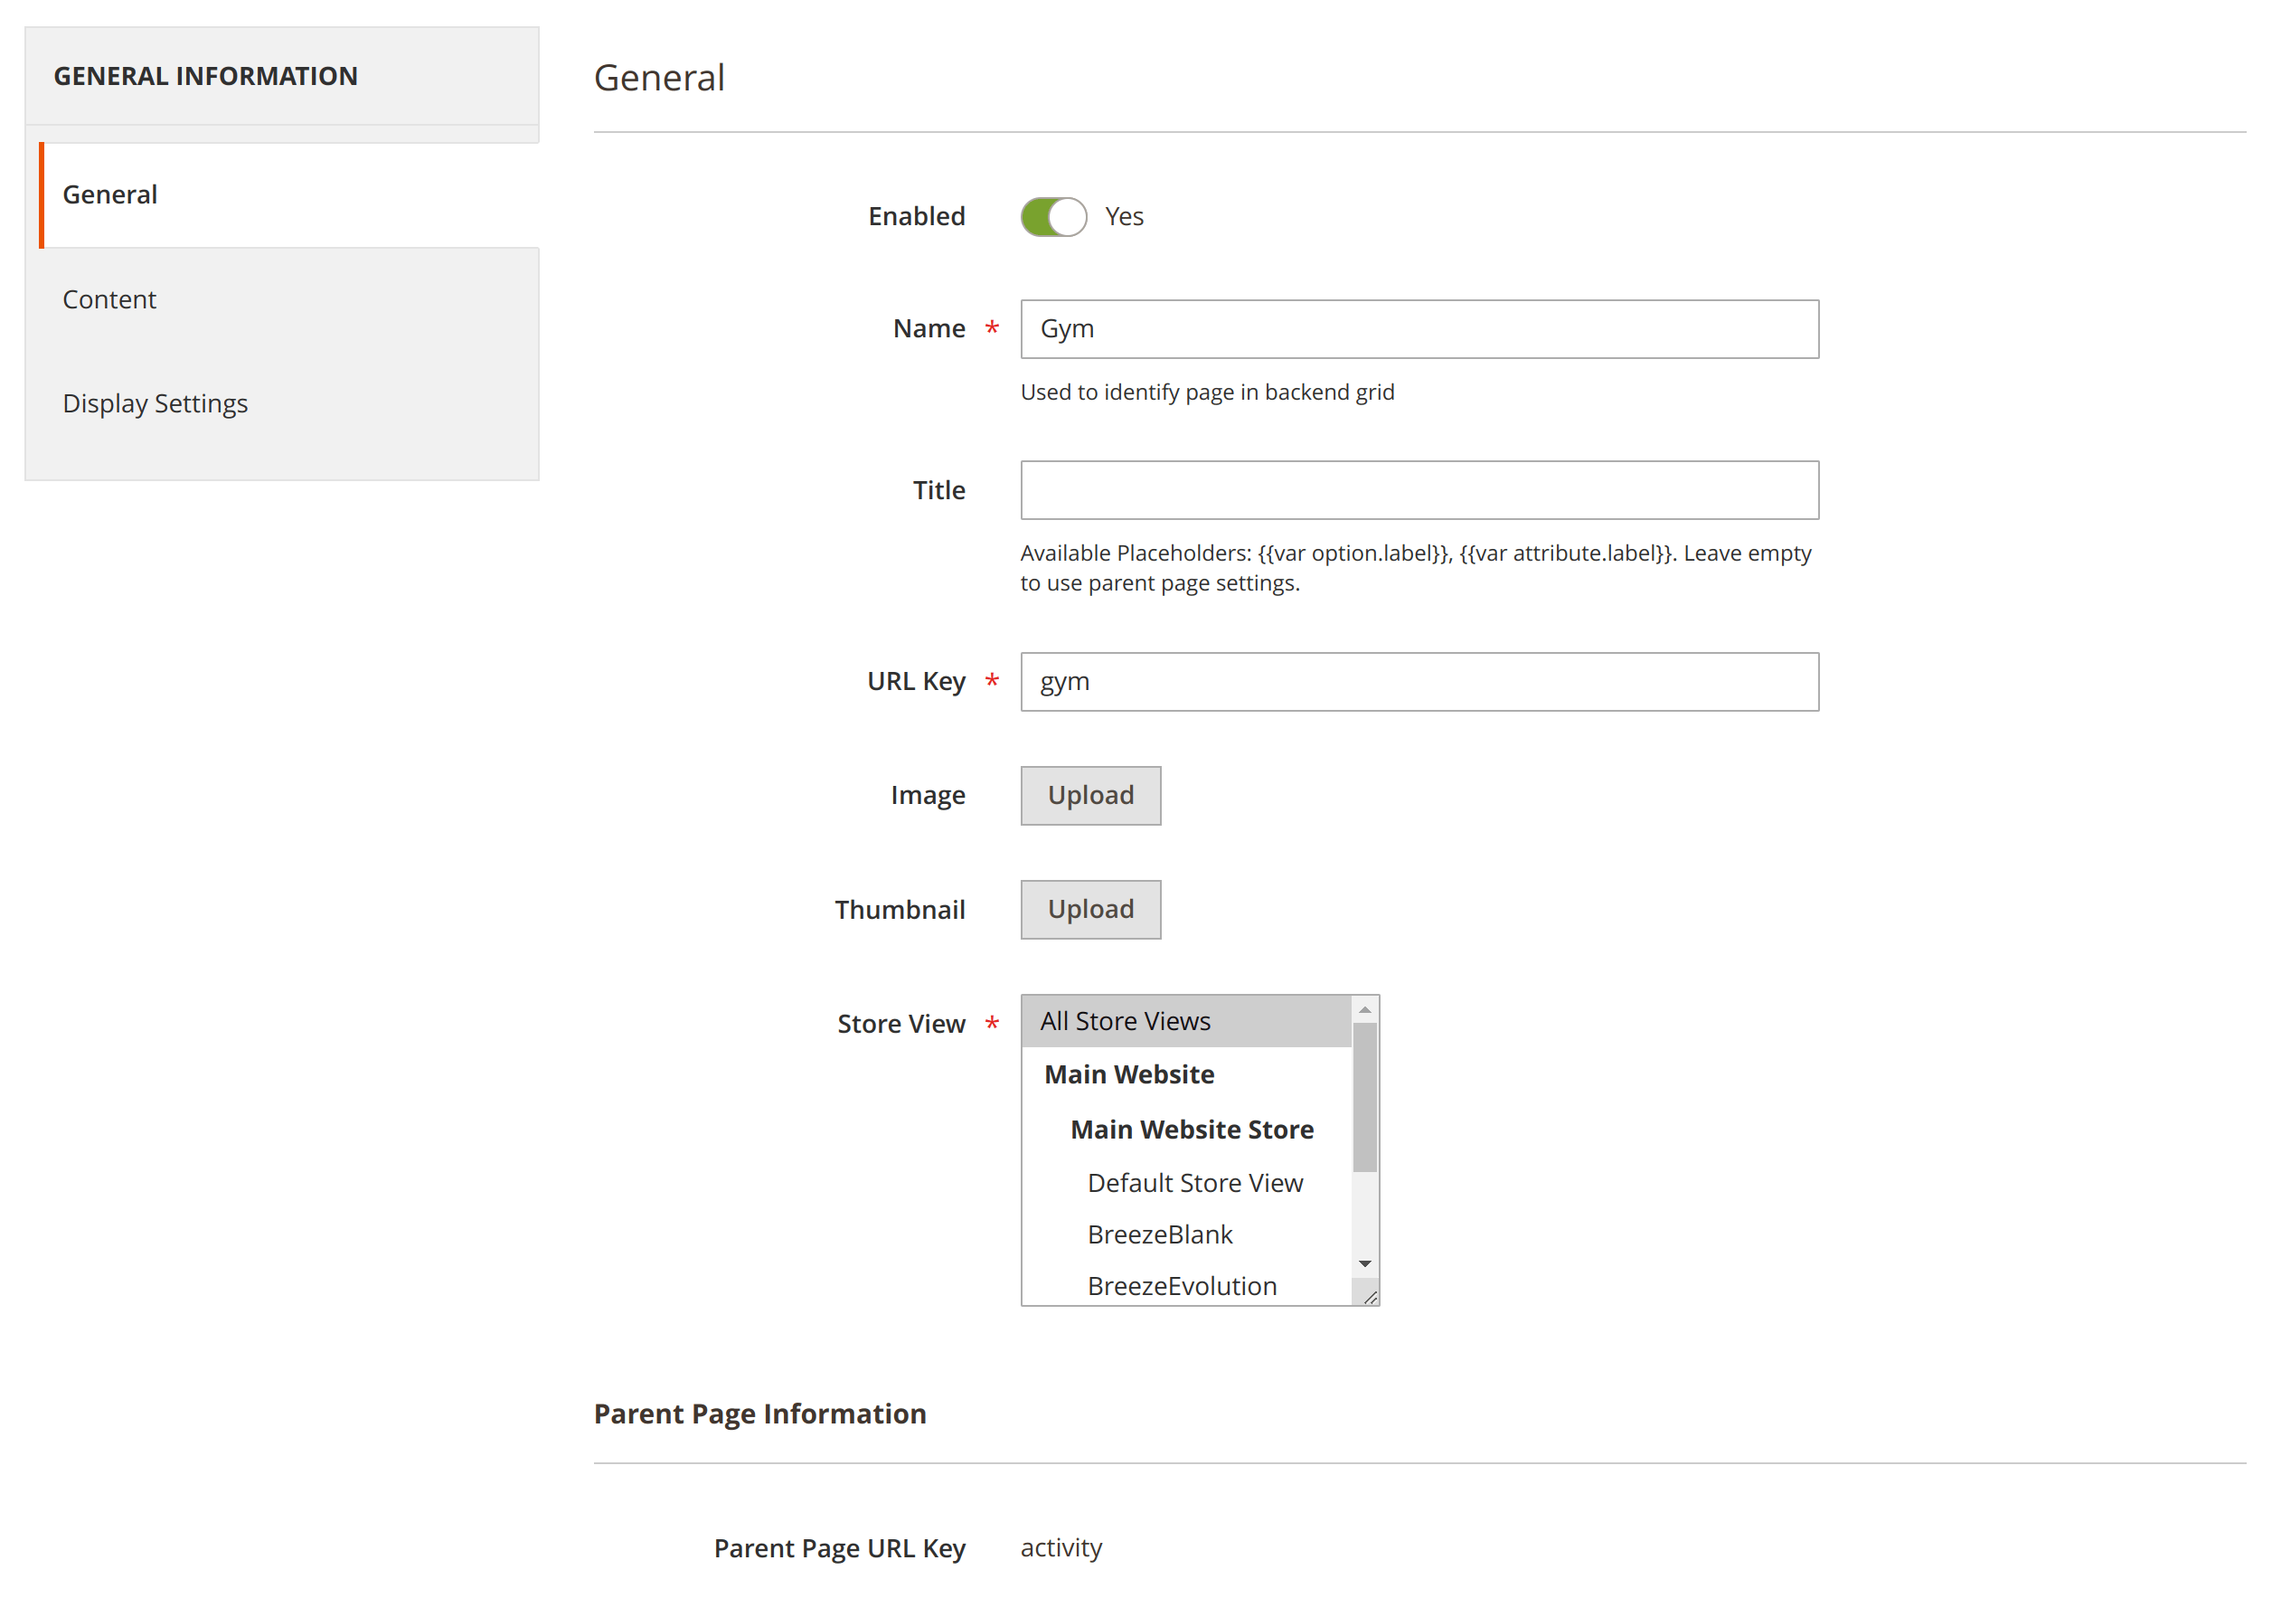
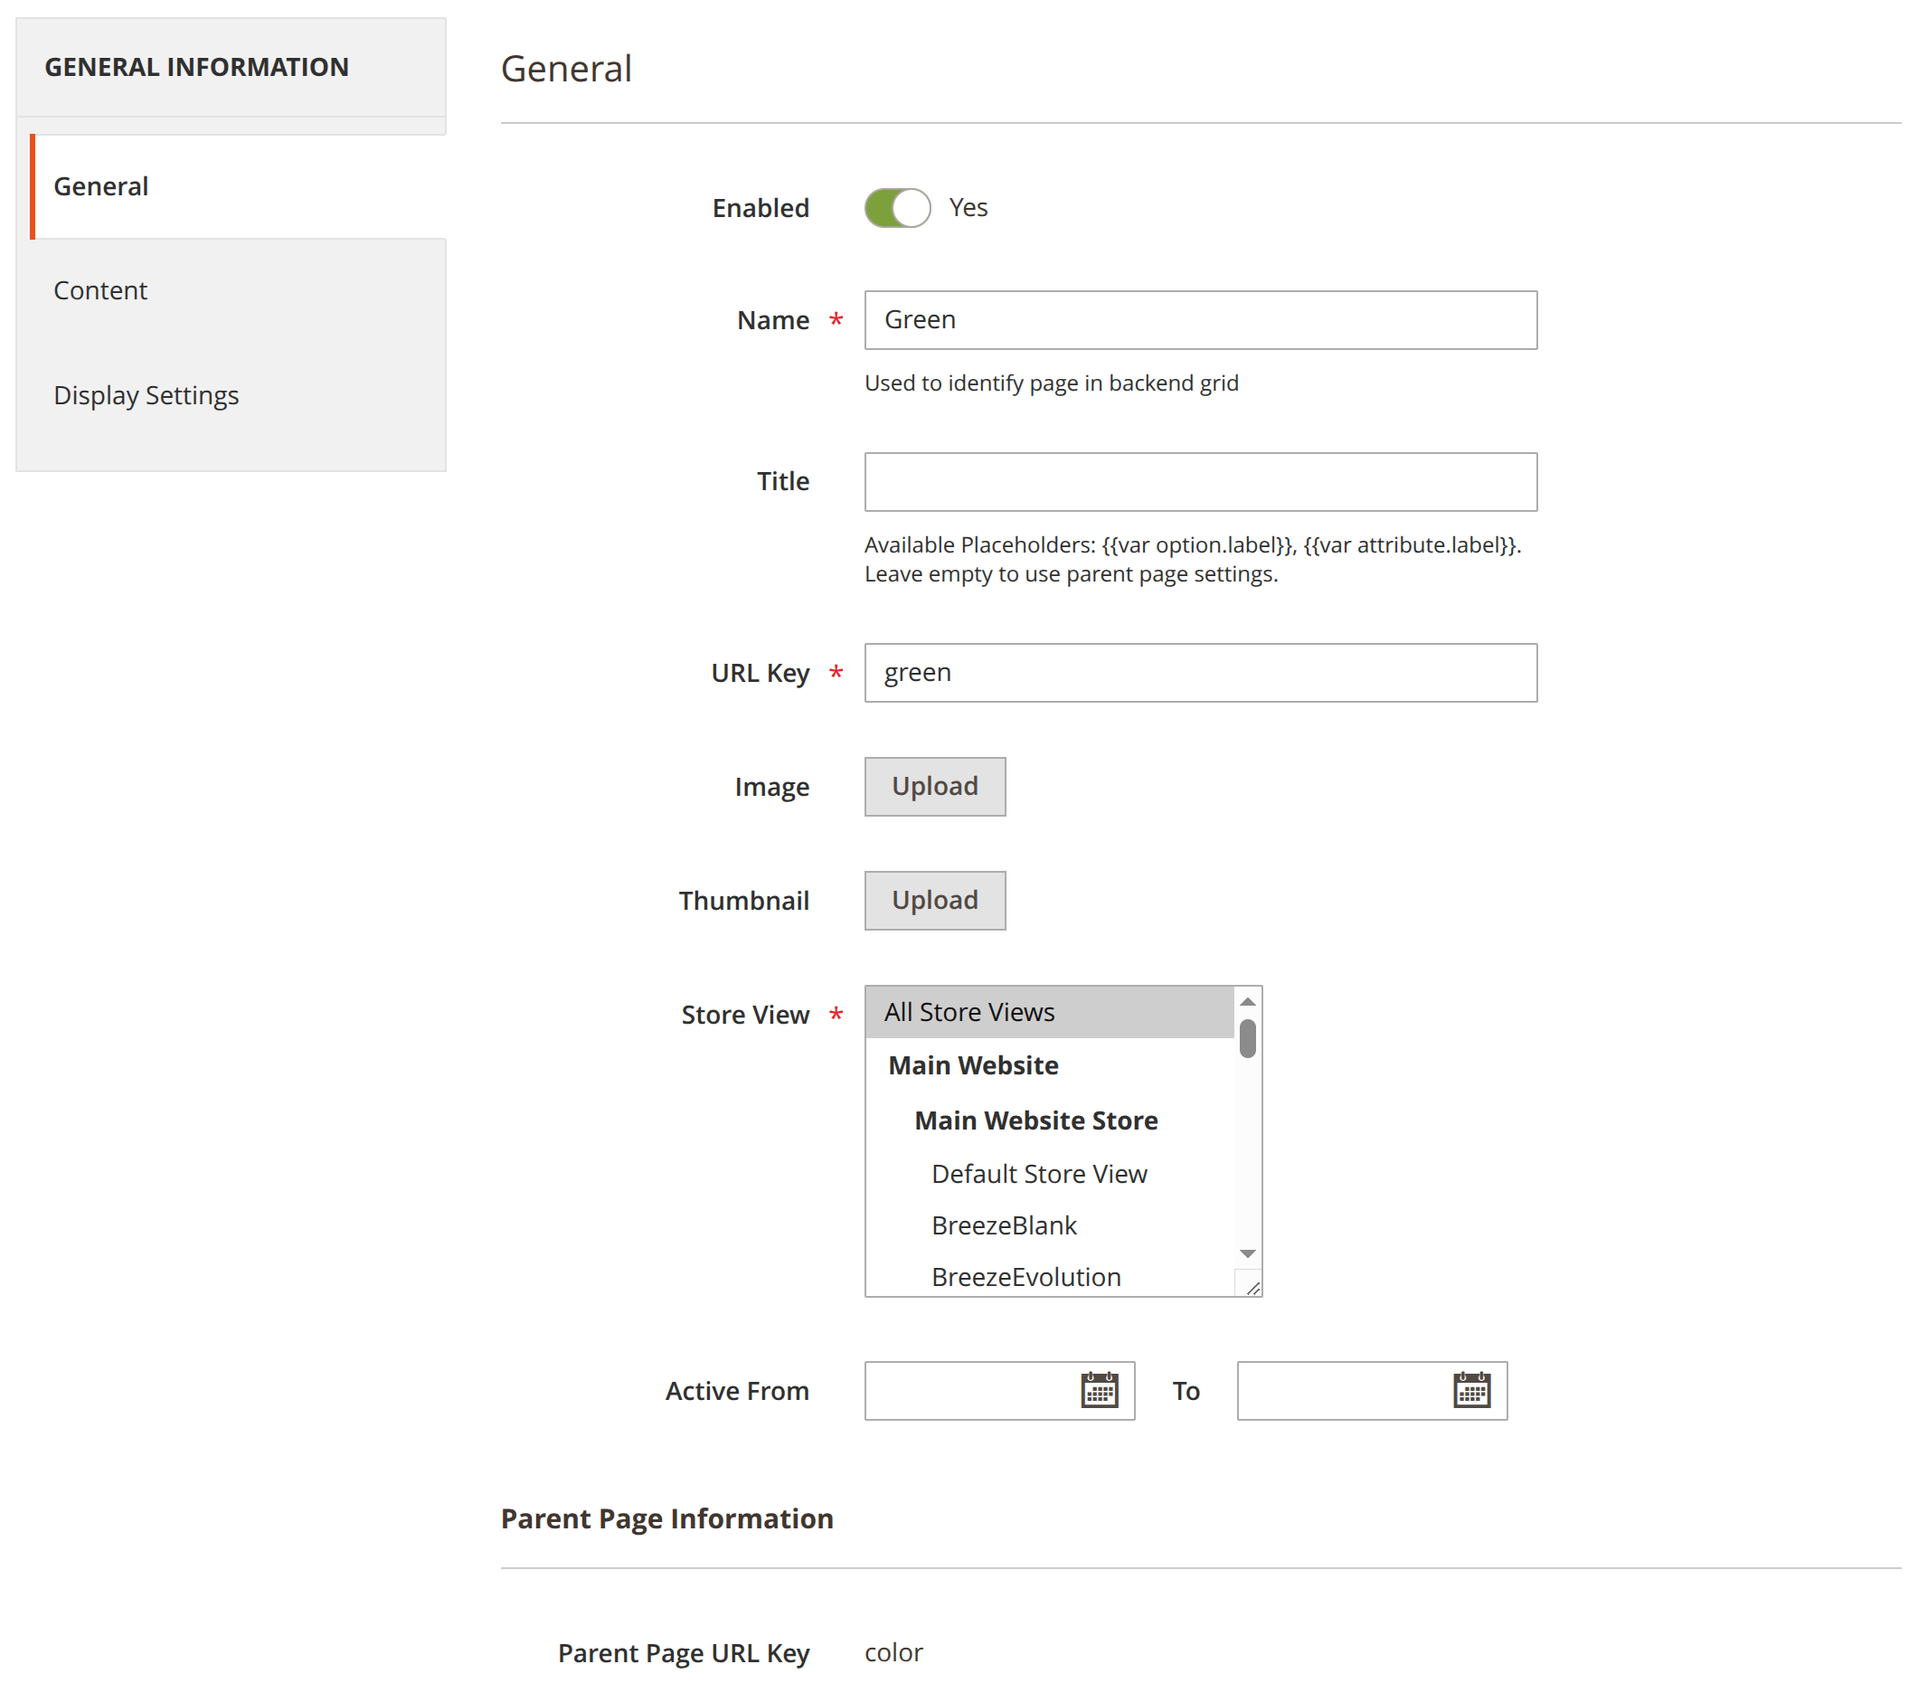
Attributepages 1.8.0

diff --git a/m2/extensions/attributepages/attribute-based-page/backend.md b/m2/extensions/attributepages/attribute-based-page/backend.md
@@ -47,7 +47,7 @@ Attribute page form consists of four tabs:
 
 ##### Page information tab
 
-![Page information tab](/images/m2/attributepages/attribute-based-page/backend/tab-page-information.png)
+![Page information tab](/images/m2/attributepages/attribute-based-page/backend/tab-page-information.png?v=2)
 
 Field | Description
 :-----|:-----------
@@ -57,6 +57,7 @@ Name | Page identifier for store owner
 Title | Used by `Swissup\Attributepages\Block\Attribute\PagesList` block and widget.<br/> It's also used as a `Page Title` if the content tab does not redefine it.
 Url key | Frontend url where the page will be available
 Store View | List of store views, where the current page should be available
+Active From, Active To | Ability to set date range when the page should be active
 **Attribute Information** |
 Attribute | Attribute label and ID
 Hide from layered navigation | Show/Hide attribute from layered navigation across all Magento pages

diff --git a/m2/extensions/attributepages/option-based-page/backend.md b/m2/extensions/attributepages/option-based-page/backend.md
@@ -39,7 +39,7 @@ Option page form contains three tabs:
 
 ##### Option information tab
 
-![Option information](/images/m2/attributepages/option-based-page/backend/tab-option-information.png)
+![Option information](/images/m2/attributepages/option-based-page/backend/tab-option-information.png?v=2)
 
 Field | Description
 :-----|:-----------
@@ -50,6 +50,7 @@ Url key | Frontend url where the page will be available
 Image | Image to show at the Attributepage and widgets
 Thumbnail | Image to show, when tiny logo size is needed. Look at [Use cases](/m2/extensions/attributepages/use-cases/) page.
 Store View | List of store views, where current page should be available
+Active From, Active To | Ability to set date range when the page should be active
 
 ##### Content tab
 

diff --git a/m2/extensions/attributepages/changelog.md b/m2/extensions/attributepages/changelog.md
@@ -7,6 +7,16 @@ category: Attributepages
 
 # Changelog
 
+### Version 1.8.0
+
+> December 8, 2025
+
+ -  Added ability to activate page according specified date range.
+    "Active from", and "Active to" options available for both [attribute](/m2/extensions/attributepages/attribute-based-page/backend/#attribute-page-form)
+    and [option-based pages](/m2/extensions/attributepages/option-based-page/backend/#option-page-form).
+    These fields are optional and you may leave them empty to keep
+    pages active regardless of date.
+
 ### Version 1.7.5
 
 > August 12, 2025
